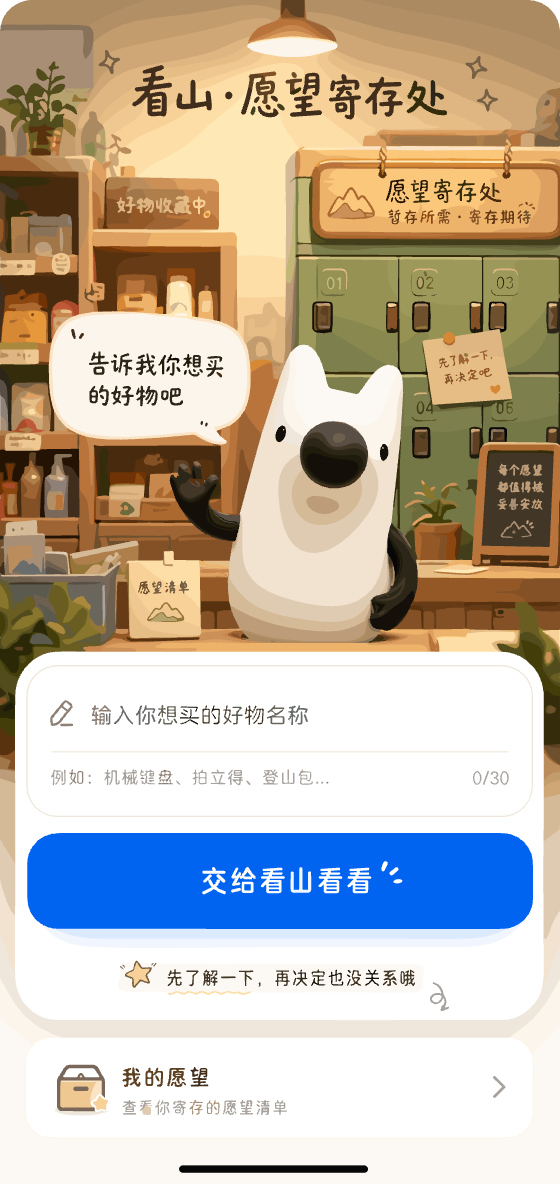
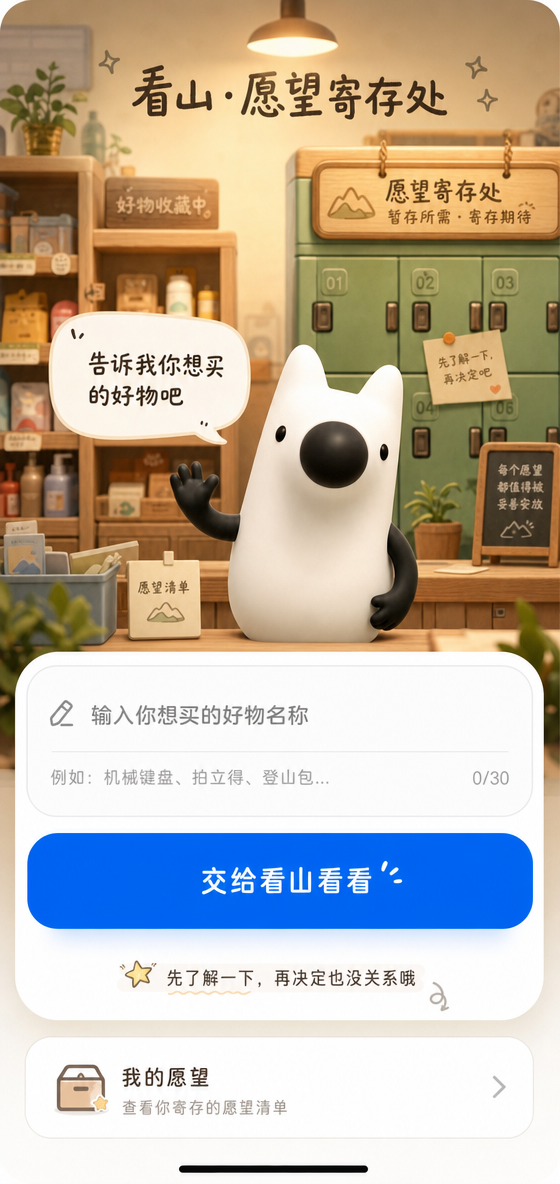
fix: preserve approved homepage artwork

diff --git a/src/app/styles.css b/src/app/styles.css
@@ -22,32 +22,29 @@ h1 { font-size: clamp(2rem, 7vw, 3.65rem); line-height: 1.08; margin: 7px 0 15px
 h2 { font-size: 1.2rem; } h3 { margin: 7px 0; font-size: 1rem; } p { color: #685a4e; line-height: 1.65; }
 .eyebrow { color: #a1662b; font-weight: 900; margin: 0; letter-spacing: .03em; }
 
-/* Homepage layers remain independent so soft keyboards can reflow the form. */
-.home-stage { position: relative; isolation: isolate; min-height: 100dvh; padding: calc(20px + env(safe-area-inset-top)) 16px calc(20px + env(safe-area-inset-bottom)); display: grid; grid-template-rows: auto minmax(250px, 1fr) auto auto; gap: 10px; overflow: hidden; }
-.home-background { position: absolute; z-index: -2; inset: 0; width: 100%; height: 100%; object-fit: cover; object-position: center top; }
-.home-stage::after { content: ""; position: absolute; z-index: -1; inset: 0; background: linear-gradient(180deg, rgb(255 245 224 / 10%) 0%, rgb(255 245 224 / 0%) 54%, rgb(255 250 243 / 55%) 100%); pointer-events: none; }
-.home-title-layer { position: relative; text-align: center; padding-top: 10px; text-shadow: 0 2px 0 rgb(255 240 208 / 45%); }
-.home-kicker { margin: 0; color: #795638; font-size: 14px; font-weight: 750; }
-.home-title-layer h1 { margin: 4px 0 0; color: #3d2a1d; font-family: "STKaiti", "KaiTi", ui-rounded, sans-serif; font-size: clamp(2.25rem, 11vw, 4.25rem); letter-spacing: .02em; }
+/* The approved artwork is the homepage source of truth. Only the three real
+   controls and the explicitly requested masks sit above its pixels. */
+.home-stage { position: relative; width: 100%; aspect-ratio: 560 / 1184; overflow: hidden; background: #fff; }
+.home-reference-art { position: absolute; inset: 0; display: block; width: 100%; height: auto; }
+.home-hotspots { position: absolute; inset: 0; margin: 0; }
+.home-live-input { position: absolute; z-index: 2; left: 15.5%; top: 58.15%; width: 75%; height: 5.35%; min-height: 44px; padding: 0 2px; border: 0; border-radius: 0; outline-offset: 2px; background: #fffefa; color: #3d2d21; font-size: clamp(16px, 3.7vw, 20px); font-weight: 400; }
+.home-live-input::placeholder { color: #999; opacity: 1; }
+.home-counter-mask { position: absolute; z-index: 3; left: 82%; top: 64.55%; width: 11%; height: 3.25%; background: #fffefa; }
+.home-input-error { position: absolute; z-index: 4; left: 9%; top: 64.6%; width: 70%; min-height: 0; margin: 0; padding: 2px 5px; background: #fffefa; color: #9e3048; font-size: clamp(11px, 2.8vw, 14px); font-weight: 700; line-height: 1.35; }
+.home-input-error:empty { display: none; }
+.home-primary-hotspot { position: absolute; z-index: 4; left: 5%; top: 70.3%; width: 90%; height: 8.2%; min-height: 0; padding: 0; border: 0; border-radius: 28px; background: transparent; }
+.home-primary-hotspot:focus-visible, .wish-entry-hotspot:focus-visible { outline: 3px solid #f0a23f; outline-offset: -4px; }
+.home-hint { position: absolute; z-index: 4; left: 25%; top: 81.35%; width: 50%; min-height: 3.4%; margin: 0; display: grid; place-items: center; background: #fff; color: #69523c; font-size: clamp(14px, 3.4vw, 19px); font-weight: 500; line-height: 1.2; white-space: nowrap; }
+.wish-entry-hotspot { position: absolute; z-index: 4; left: 4.3%; top: 87.55%; width: 91.4%; height: 8.8%; min-height: 0; padding: 0; border: 0; border-radius: 22px; background: transparent; }
+.home-gesture-mask { position: absolute; z-index: 5; left: 0; right: 0; bottom: 0; height: 3.15%; background: #fff; pointer-events: none; }
 .liu-kanshan { display: block; width: min(57vw, 255px); height: auto; object-fit: contain; filter: drop-shadow(0 10px 10px rgb(80 46 18 / 16%)); }
-.home-stage > .liu-kanshan { align-self: end; justify-self: center; width: min(63vw, 295px); margin: 0 0 -2px; }
-.home-speech { position: absolute; top: clamp(188px, 35dvh, 315px); left: clamp(18px, 7vw, 48px); max-width: 190px; padding: 18px 18px 20px; border: 3px solid #fff9ec; border-radius: 46% 46% 44% 48%; background: rgb(255 253 246 / 96%); color: #473426; font-size: clamp(1.05rem, 4.8vw, 1.35rem); font-weight: 900; line-height: 1.45; box-shadow: 0 7px 16px rgb(97 65 35 / 12%); transform: rotate(-2deg); }
-.home-speech::after { content: ""; position: absolute; right: 16px; bottom: -14px; width: 25px; height: 25px; border-right: 3px solid #fff9ec; border-bottom: 3px solid #fff9ec; background: #fffdf7; transform: rotate(34deg) skew(10deg); }
-.home-search { position: relative; display: grid; gap: 10px; padding: 14px; border: 1px solid rgb(255 255 255 / 88%); border-radius: 28px; background: rgb(255 253 249 / 94%); box-shadow: 0 12px 28px rgb(89 56 29 / 18%); }
-.home-search input { min-height: 54px; width: 100%; border: 1px solid #e6d6c1; border-radius: 17px; padding: 12px 15px; background: #fffefa; color: #3d2d21; font-size: 16px; }
-.home-search .primary { min-height: 54px; width: 100%; border: 0; border-radius: 17px; background: #1468eb; box-shadow: 0 8px 0 rgb(12 74 178 / 13%); color: #fff; font-size: 1.16rem; font-weight: 900; }
-.home-search .primary:hover { background: #0758d7; }
-.home-hint { margin: 0; text-align: center; color: #69523c; font-size: 14px; font-weight: 750; }
-.wish-entry { display: grid; grid-template-columns: 42px 1fr auto; gap: 10px; align-items: center; width: 100%; min-height: 74px; padding: 12px 16px; border: 1px solid rgb(255 255 255 / 90%); border-radius: 21px; background: rgb(255 253 249 / 94%); color: #4b3829; text-align: left; box-shadow: 0 8px 20px rgb(89 56 29 / 10%); }
-.wish-entry-icon { display: grid; place-items: center; width: 38px; height: 38px; border: 2px solid #aa7642; border-radius: 9px; color: #aa7642; font-size: 1.55rem; }
-.wish-entry strong, .wish-entry small { display: block; }.wish-entry strong { font-size: 1.05rem; }.wish-entry small { margin-top: 2px; color: #867667; font-size: 14px; }.wish-entry-arrow { color: #9e8a75; font-size: 2.3rem; font-weight: 300; line-height: 1; }
 .input-error { min-height: 0; margin: 0; color: #9e3048; font-weight: 700; }.input-error:empty { display: none; }
 
 .state-heading { display: grid; grid-template-columns: 1fr auto; gap: 14px; align-items: center; }
 .state-heading .liu-kanshan { width: clamp(112px, 27vw, 175px); flex: 0 0 auto; }
 .liu-kanshan-welcome { animation: liu-breathe 4.8s ease-in-out infinite; }.liu-kanshan-guard { animation: liu-guard 3.4s ease-in-out infinite; }.liu-kanshan-release { animation: liu-release .65s ease-out both; }
 
-form:not(.home-search), .test-panel { margin-top: 24px; } label { display: grid; gap: 7px; color: #5b4331; font-weight: 800; }
+form:not(.home-search):not(.home-hotspots), .test-panel { margin-top: 24px; } label { display: grid; gap: 7px; color: #5b4331; font-weight: 800; }
 input, select { width: 100%; min-height: 48px; border: 1px solid #d1bc9f; border-radius: 12px; padding: 10px 12px; background: #fff; font-size: 16px; }
 .primary, .secondary, .duration, .decision { border-radius: 12px; padding: 10px 16px; border: 1px solid #8a5c2e; font-weight: 850; }
 .primary { display: inline-flex; align-items: center; justify-content: center; color: #fff; background: #9b6130; text-decoration: none; }.primary:hover { background: #7d4c24; }.secondary, .duration, .decision { color: #6d4527; background: #fffdf8; }
@@ -66,8 +63,6 @@ input, select { width: 100%; min-height: 48px; border: 1px solid #d1bc9f; border
 
 @media (max-width: 420px) {
   header { align-items: flex-start; }.mode-badge { max-width: 145px; }.duration-list, .equal { grid-template-columns: 1fr; }.wish-row { grid-template-columns: 1fr; }.summary { grid-template-columns: 72px 1fr; }.summary img, .image-fallback { width: 72px; height: 64px; }.state-heading { grid-template-columns: 1fr; }.state-heading .liu-kanshan { justify-self: end; margin-top: -12px; }
-  .home-stage { min-height: 100svh; }.home-speech { top: clamp(170px, 31dvh, 265px); left: 18px; max-width: 165px; padding: 14px 15px 17px; font-size: 1rem; }.home-stage > .liu-kanshan { width: min(65vw, 260px); }.home-title-layer h1 { font-size: clamp(2.2rem, 11vw, 3.1rem); }
 }
-@media (max-height: 700px) { .home-stage { grid-template-rows: auto minmax(195px, 1fr) auto auto; }.home-stage > .liu-kanshan { width: min(48vw, 210px); }.home-speech { top: 154px; }.home-title-layer { padding-top: 0; } }
 @media (prefers-reduced-motion: reduce) { *, *::before, *::after { animation-duration: .01ms !important; animation-iteration-count: 1 !important; scroll-behavior: auto !important; } }
 @keyframes spin { to { transform: rotate(360deg); } } @keyframes liu-breathe { 50% { transform: translateY(-4px); } } @keyframes liu-guard { 50% { transform: translateY(-3px); opacity: .94; } } @keyframes liu-release { from { opacity: 0; transform: translateY(8px); } to { opacity: 1; transform: translateY(0); } } @keyframes outcome-arrive { from { opacity: 0; transform: translateY(10px); } to { opacity: 1; transform: translateY(0); } }

diff --git a/src/app/main.js b/src/app/main.js
@@ -52,7 +52,8 @@ const escape = (value) => String(value).replace(/[&<>"']/g, (character) => ({ '&
 const modeLabel = () => fixtureMode ? '开发测试数据' : wishTestMode ? `阶段 6 开发测试情景 · ${wishTest}` : productTestMode || evidenceTestMode ? '开发测试情景' : '阶段 6 · 愿望保管';
 const productSource = () => fixtureMode ? '开发 fixture（非淘宝实时结果）' : wishTestMode || productTestMode ? '开发测试情景（不访问外部接口）' : '淘宝联盟实时候选';
 const productSlot = '<div data-product-summary></div>';
-const liuKanshan = (state = 'welcome') => `<img class="liu-kanshan liu-kanshan-${state}" src="/assets/kanshan-home/liu-kanshan-wave-transparent.png" alt="刘看山${state === 'guard' ? '正在守候这个愿望' : state === 'release' ? '轻轻送别这次决定' : '向你挥手'}" />`;
+const kanshanAsset = (file) => `${import.meta.env.BASE_URL}assets/kanshan-home/${file}`;
+const liuKanshan = (state = 'welcome') => `<img class="liu-kanshan liu-kanshan-${state}" src="${kanshanAsset('liu-kanshan-wave-transparent.png')}" alt="刘看山${state === 'guard' ? '正在守候这个愿望' : state === 'release' ? '轻轻送别这次决定' : '向你挥手'}" />`;
 
 function appendProductSummary(target, product) {
   const summary = document.createElement('div'); summary.className = 'summary';
@@ -118,7 +119,7 @@ function render() {
 }
 
 function renderHome() {
-  shell(`<section class="home-stage" aria-labelledby="home-title"><img class="home-background" src="/assets/kanshan-home/home-background.webp" alt="" aria-hidden="true" /><div class="home-title-layer"><p class="home-kicker">把冲动交给看山，把决定留给自己</p><h1 id="home-title">看山·愿望寄存处</h1></div>${liuKanshan('welcome')}<div class="home-speech" role="note">告诉我你想买的好物吧</div><form id="search-form" class="home-search"><label class="sr-only" for="search-input">商品名称</label><input id="search-input" name="query" maxlength="80" placeholder="输入你想买的好物名称" value="${escape(flow.query ?? '')}" /><p id="input-error" class="input-error" role="alert"></p><button class="primary" type="submit">交给看山看看</button><p class="home-hint">先了解一下，再决定也没关系哦</p></form><button class="wish-entry" type="button" data-action="wishes"><span class="wish-entry-icon" aria-hidden="true">▱</span><span><strong>我的愿望</strong><small>查看你寄存的愿望清单</small></span><span class="wish-entry-arrow" aria-hidden="true">›</span></button></section>${fixtureMode ? `<section class="test-panel"><h2>开发测试开关</h2><label>证据状态 <select id="evidence-mode"><option value="both">两类证据都有</option><option value="partial">只有专业类证据</option><option value="none">没有相关证据</option><option value="error">证据加载失败</option></select></label><label>候选异常 <select id="product-mode"><option value="normal">正常候选</option><option value="broken">首张图片加载失败</option><option value="missing-promotion">首条缺少推广链接</option></select></label></section>` : ''}`, { home: true });
+  shell(`<section class="home-stage" aria-labelledby="home-title"><img class="home-reference-art" src="${kanshanAsset('home-reference-original.png')}" alt="" aria-hidden="true" /><h1 id="home-title" class="sr-only">看山·愿望寄存处</h1><form id="search-form" class="home-hotspots"><label class="sr-only" for="search-input">商品名称</label><input class="home-live-input" id="search-input" name="query" maxlength="80" placeholder="输入你想买的好物名称" value="${escape(flow.query ?? '')}" /><span class="home-counter-mask" aria-hidden="true"></span><p id="input-error" class="home-input-error" role="alert"></p><button class="home-primary-hotspot" type="submit"><span class="sr-only">交给看山看看</span></button><p class="home-hint">先了解一下，再决定也没关系哦</p></form><button class="wish-entry-hotspot" type="button" data-action="wishes"><span class="sr-only">我的愿望：查看你寄存的愿望清单</span></button><span class="home-gesture-mask" aria-hidden="true"></span></section>${fixtureMode ? `<section class="test-panel"><h2>开发测试开关</h2><label>证据状态 <select id="evidence-mode"><option value="both">两类证据都有</option><option value="partial">只有专业类证据</option><option value="none">没有相关证据</option><option value="error">证据加载失败</option></select></label><label>候选异常 <select id="product-mode"><option value="normal">正常候选</option><option value="broken">首张图片加载失败</option><option value="missing-promotion">首条缺少推广链接</option></select></label></section>` : ''}`, { home: true });
   root.querySelector('#search-form').addEventListener('submit', (event) => { event.preventDefault(); const query = normalizeClientQuery(new FormData(event.currentTarget).get('query')); if (!query) { root.querySelector('#input-error').textContent = '请输入 2 到 80 个字符的商品名称、品牌或型号。'; return; } root.querySelector('[type="submit"]').disabled = true; flow = { state: States.IDLE, query, evidenceMode: fixtureMode ? root.querySelector('#evidence-mode').value : null, productMode: fixtureMode ? root.querySelector('#product-mode').value : null }; save(States.PRODUCT_SEARCHING); });
 }
 

diff --git a/test/phase6.test.js b/test/phase6.test.js
@@ -33,8 +33,12 @@ test('phase6 shopping card rejects missing, unsafe, non-HTTPS and non-Taobao sav
 test('phase6 Liu Kanshan presentation states are static and cannot mutate a wish lifecycle', () => {
   const before = wish.status;
   const main = readFileSync(new URL('../src/app/main.js', import.meta.url), 'utf8');
+  assert.match(main, /home-reference-original\.png/);
+  assert.match(main, /import\.meta\.env\.BASE_URL/);
   assert.match(main, /liu-kanshan-wave-transparent\.png/);
-  for (const state of ['welcome', 'guard', 'release']) assert.match(main, new RegExp(`liuKanshan\\('${state}'\\)`));
+  // The welcome pose is part of the user-approved homepage artwork. Guard and
+  // release remain live presentation states on later pages.
+  for (const state of ['guard', 'release']) assert.match(main, new RegExp(`liuKanshan\\('${state}'\\)`));
   assert.doesNotMatch(main, /kanshanCharacter|kanshan-character/);
   assert.equal(wish.status, before);
 });

diff --git a/PHASE6_ACCEPTANCE.md b/PHASE6_ACCEPTANCE.md
@@ -2,7 +2,7 @@
 
 > 状态：本地购物卡与提交版视觉已完成并冻结在本地提交中；本轮未调用外部接口、未部署、未推送。阶段 7/8 未开始。
 
-> 视觉返工：当前产品名称统一为“看山·愿望寄存处”。首页使用 `public/assets/kanshan-home/` 内独立的商店背景与刘看山透明素材；参考图仅用于构图比对，不作为整页背景。此返工不改变购物卡、金额统计、愿望状态或远程边界。
+> 视觉返工：当前产品名称统一为“看山·愿望寄存处”。首页直接以用户定稿的 `home-reference-original.png` 保持完整构图，仅叠加真实输入框、提交热区、愿望入口热区，以及明确要求的字符计数/系统手势条遮罩。此返工不改变购物卡、金额统计、愿望状态或远程边界。
 
 ## 代码完成
 
@@ -10,10 +10,10 @@
 - 购物卡只从已保存愿望快照读取商品编号、标题、图片、销售价、预估到手价和 `promotionUrl`；不重新搜索、不二次转链、不拼接或替换链接。
 - 外跳只在保存值本身为安全的 HTTPS 淘宝官方推广域名时创建真实 HTML `<a>`。链接缺失或无效时不生成按钮，并说明原因；本地验收只核对 `href`，未点击外部淘宝页面。
 - 放弃结果页展示本次计划支出，以及服务端/本地存储返回的累计放下数量与金额；明确其不是实际财务收益。`purchased_intent` 不计入该累计，重复决定不会重复累计。
-- 首页产品名称为“看山·愿望寄存处”，以独立商店背景、知乎官方刘看山透明素材、HTML/CSS 对话框、表单和愿望入口构成响应式图层；首页不展示动态愿望统计。欢迎、守候、释然三种视觉状态均为展示层，不改变愿望生命周期。
+- 首页产品名称为“看山·愿望寄存处”；定稿图中的标题、商店、刘看山、对话框、表单外观和愿望入口外观保持原样，网页只覆盖必须真实交互的输入、提交和愿望入口。首页不展示动态愿望统计。其他流程中的守候、释然角色状态仍为展示层，不改变愿望生命周期。
 - 动画为 CSS 的轻微呼吸/位移和结局过渡；`prefers-reduced-motion` 会关闭动画。
 - 正式愿望列表隐藏删除账户入口；仅开发 `wishTest` 保留本地测试入口。
-- 视觉返工后，首页以 `home-background.webp`、透明刘看山 PNG、对话框、表单、辅助文案和“我的愿望”卡片组成独立图层；未使用整张参考图作为页面背景，也不再显示首页动态统计、字符计数或系统手势条。
+- 视觉返工后，首页使用整张定稿图作为视觉底图，不再重新拼装或重绘其画面；真实控件按定稿位置覆盖。字符计数与系统手势条由局部遮罩移除，辅助文案以不低于 14px 的 HTML 文本覆盖原文。其他页面仍使用透明刘看山 PNG。
 
 ## 静态检查
 
@@ -39,7 +39,7 @@ N/A。本轮淘宝、知乎、转链、Supabase、邮件和 Edge Function 调用
 - 视觉：已查看欢迎、守候、释然三种“看山”状态；展示状态不会改变愿望生命周期。
 - 响应式：受控桌面 Chrome 本地视口 320、375、390、430px 均无横向溢出；这不是微信或知乎真实 WebView 验收。
 - 控制台：购买、无效链接、刷新恢复与响应式页面的未处理 `error` 均为 0。
-- 首页视觉稿返工复验：与 `home-reference-original.png` 逐层核对背景、刘看山、标题、对话框、表单与底部入口；受控桌面 Chrome 的 320、375、390、430px 均无横向溢出，辅助文案计算字号为 14px，未发现字符计数、动态统计或黑色手势条。该受控桌面尺寸模拟不代表微信或知乎真实 WebView。
+- 首页视觉稿返工复验：直接以 `home-reference-original.png` 保留定稿构图，仅检查真实控件覆盖、局部遮罩和交互；受控桌面 Chrome 的 320、375、390、430px 均无横向溢出，辅助文案计算字号不低于 14px，未发现字符计数、动态统计或黑色手势条。该受控桌面尺寸模拟不代表微信或知乎真实 WebView。
 
 ## 远程部署
 

diff --git a/public/assets/kanshan-home/README.md b/public/assets/kanshan-home/README.md
@@ -2,24 +2,23 @@
 
 ## 文件用途
 
-- `home-reference-original.png`：用户确认的首页原始设计稿，作为构图、色彩和整体氛围的主要视觉基准。
-- `home-reference-adjusted-preview.png`：按本轮反馈移除字符计数和系统手势条、放大辅助文案后的效果预览。该文件只用于沟通，不应作为网页整页背景。
-- `home-background.webp`：正式页面优先使用的纯背景图，已移除角色与前景交互组件。
+- `home-reference-original.png`：用户确认的首页定稿。正式首页直接使用它保持完整构图，只叠加必要的真实控件与局部遮罩。
+- `home-reference-adjusted-preview.png`：早期沟通预览，不作为当前实现依据。
+- `home-background.webp`：早期分层方案的纯背景图，当前首页不使用，保留供后续页面设计参考。
 - `home-background-source.png`：纯背景的高质量 PNG 源文件，供后续裁切或重新压缩。
 - `liu-kanshan-wave-transparent.png`：透明背景的刘看山挥手角色素材，用于网页独立定位和响应式缩放。
 
-## 网页图层要求
+## 当前网页实现
 
-以下内容必须使用 HTML/CSS 实现，不得烘焙进背景图：
+为最大程度保持定稿画面，标题、刘看山、对话框、表单外观和“我的愿望”卡片外观均保留在定稿图中。网页只叠加以下内容：
 
-1. 产品标题：`看山·愿望寄存处`
-2. 刘看山角色
-3. 对话框及文案：`告诉我你想买的好物吧`
-4. 商品名称输入框和提交按钮
-5. 辅助文案：`先了解一下，再决定也没关系哦`
-6. `我的愿望`入口卡片
+1. 可输入的商品名称输入框；
+2. 覆盖蓝色按钮的真实提交热区；
+3. 覆盖“我的愿望”卡片的真实入口热区；
+4. 用于移除 `0/30` 与手机系统手势条的局部遮罩；
+5. 实际渲染不低于 14px 的辅助文案。
 
-推荐层级从后到前为：背景图 → 刘看山 → 对话框 → 表单 → 我的愿望入口。
+其他流程可以继续使用 `liu-kanshan-wave-transparent.png` 作为独立角色素材。
 
 ## 已确认的首页规则
 
@@ -29,4 +28,4 @@
 - 输入框提示文字颜色沿用设计稿观感，不额外加深。
 - `先了解一下，再决定也没关系哦`实际渲染字号不得低于 `14px`。
 - 页面和项目文档中的产品名后续统一为：`看山·愿望寄存处`。
-- 页面应按手机宽度响应式布局，不能依赖固定高度或整页图片缩放；微信内打开并弹出软键盘后，输入框和主按钮仍应可见、可操作。
+- 首页按定稿的 560×1184 比例随手机宽度等比缩放；输入框、提交按钮和愿望入口必须保持可操作，且不得产生横向溢出。
